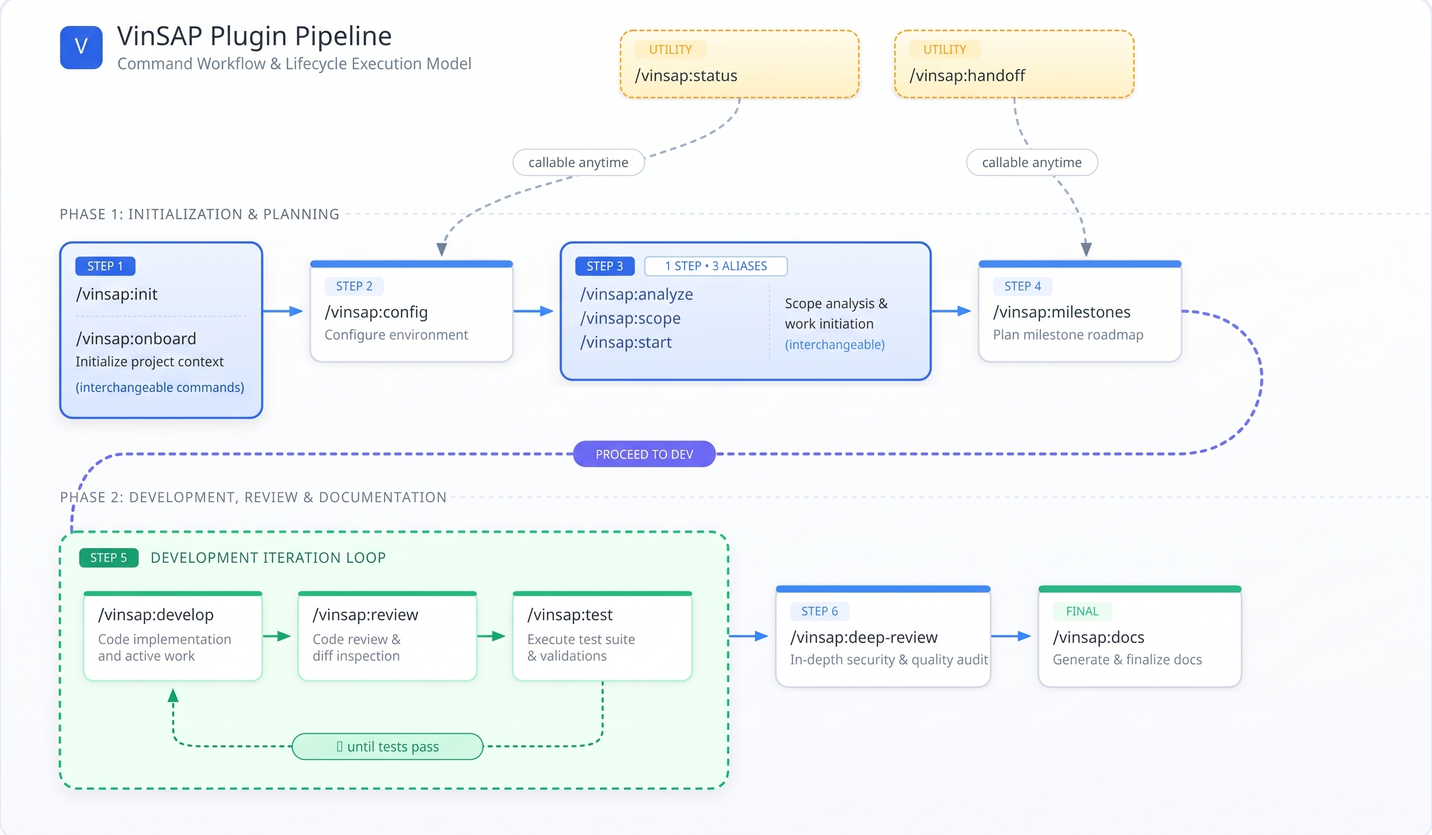
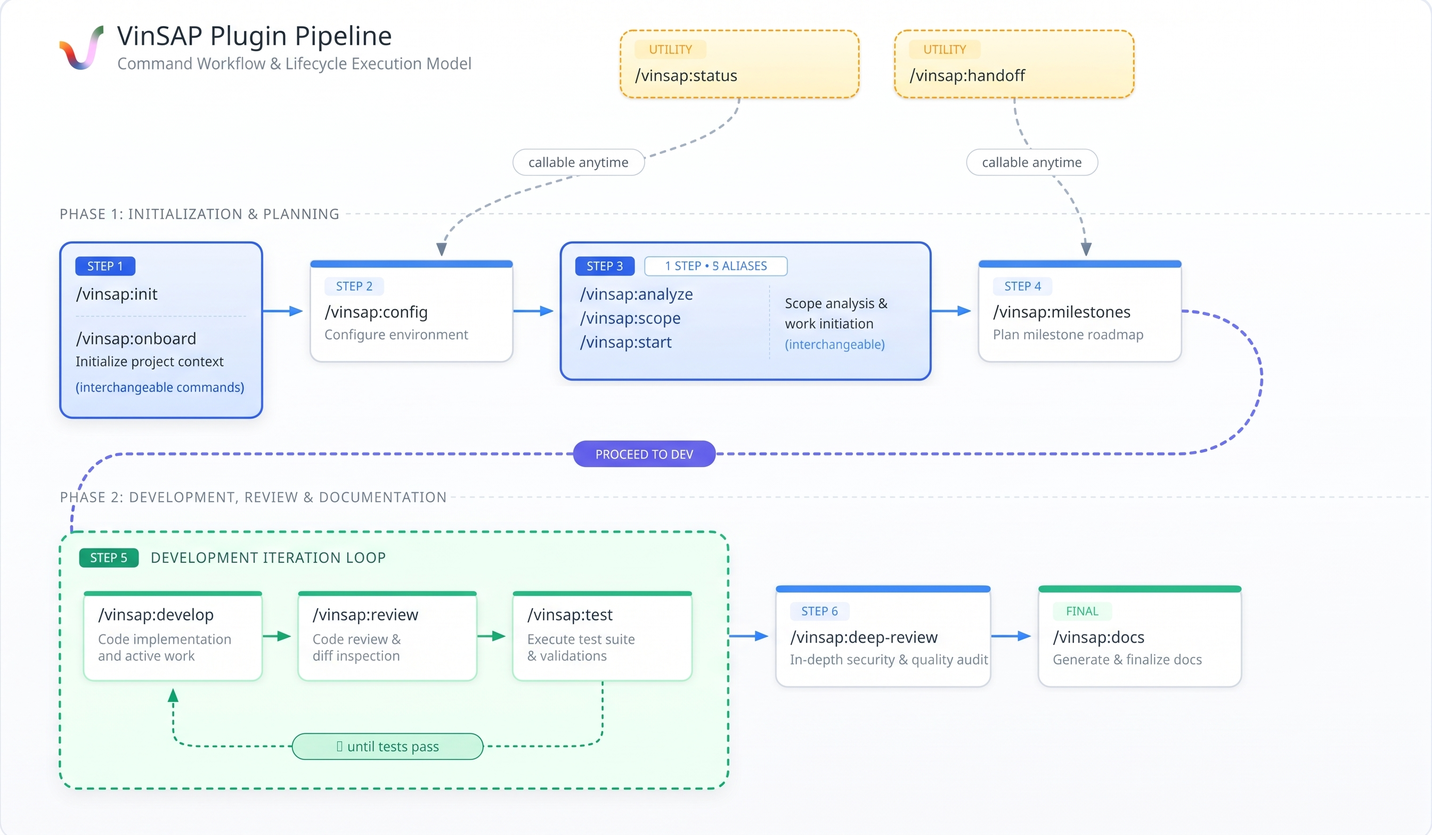
docs: add draw.io to prerequisites, wire CLI export into illustrator
draw.io desktop app (with its headless CLI mode) is the default
diagram_tool but was missing from both onboarding-guide's prerequisite
check and the README table. Added with per-OS install paths
(brew cask on macOS, drawio.com elsewhere), and illustrator's SKILL.md
now documents the actual export command (drawio -x -f svg ...) with a
mermaid fallback if the CLI isn't installed.

Changed region(s): [[0.0312, 0.0312, 0.0938, 0.0938]]

diff --git a/skills/onboarding-guide/references/prerequisites.md b/skills/onboarding-guide/references/prerequisites.md
@@ -5,6 +5,7 @@
 | Node.js | Runs Claude Code, Playwright, doc-generation tooling | `node --version` (>=18) | https://nodejs.org |
 | Claude Code CLI | Runs the plugin itself | `claude --version` | https://docs.claude.com/claude-code |
 | Playwright | Fiori/UI5 e2e test generation and execution | `npx playwright --version` | `npm install -D playwright && npx playwright install` |
+| draw.io (desktop app + CLI) | Architecture/process diagrams via the `illustrator` skill (default `diagram_tool`) — the desktop app ships a headless CLI mode used to export `.drawio` files to SVG/PNG | `drawio --version` | macOS: `brew install --cask drawio` · Windows/Linux: https://www.drawio.com/ (download and install; the `drawio` CLI binary ships inside the desktop app install) |
 | antigravity CLI (optional) | Only needed if configured as the diagram/image-generation tool instead of draw.io/mermaid | project-specific | ask the user for their install source — this is not a standard public tool |
 
 ## Flow
@@ -12,4 +13,5 @@
 1. Run each check command.
 2. For anything missing, show the install command and ask the user to run it (or confirm you may run it — installs are not silent/automatic).
 3. Re-check after the user confirms install.
-4. antigravity CLI is only required if `/vinsap:config` sets it as the diagram tool — skip checking it otherwise.
+4. draw.io is only required if `/vinsap:config`'s `diagram_tool` is `drawio` (the default) — if the user sets it to `mermaid` instead, skip this check.
+5. antigravity CLI is only required if `/vinsap:config` sets it as the diagram tool — skip checking it otherwise.

diff --git a/skills/illustrator/SKILL.md b/skills/illustrator/SKILL.md
@@ -17,7 +17,7 @@ Follow `../_shared/context-contract.md` for read/write conventions.
 1. Determine what the diagram needs to show (architecture, process flow As-Is/To-Be, milestone dependency) and which document/context it's for.
 2. Check `.sdlc/config.json` for the configured tool; default to draw.io for anything destined for a formal document.
 3. Apply `references/illustration-guidelines.md` — simple, single-concept, consistently styled, fully labeled.
-4. For draw.io: build the diagram using `references/drawio-theme/` styling; export in the format the destination document needs (embed-ready image or draw.io native file, per what `doc-generator` requests).
+4. For draw.io: build the `.drawio` file using `references/drawio-theme/` styling, then export via the headless `drawio` CLI (ships with the desktop app — see `onboarding-guide/references/prerequisites.md`), e.g. `drawio -x -f svg -o output.svg diagram.drawio`, in the format the destination document needs (embed-ready image or the native `.drawio` file, per what `doc-generator` requests). If `drawio` isn't installed, tell the user and fall back to mermaid rather than failing silently.
 5. For mermaid: use a pattern from `references/mermaid-patterns.md`, adapt to the specific content.
 6. Return the diagram to the calling skill (`doc-generator` or `milestone-planner`) — this skill does not decide where the diagram is used, only how it's built.
 

diff --git a/README.md b/README.md
@@ -30,6 +30,7 @@ It talks to your SAP systems through the **Vincit SAP MCP** (a VS Code extension
 | Node.js ≥ 18 | Playwright, doc tooling |
 | [Playwright](https://playwright.dev) | Fiori/UI5 e2e test generation |
 | Python 3 | Runs the SAP MCP guardrail hook |
+| draw.io (desktop app + CLI) | Architecture/process diagrams — default `diagram_tool`. macOS: `brew install --cask drawio` · Windows/Linux: [drawio.com](https://www.drawio.com/) |
 | Vincit SAP MCP (VS Code extension) | Per-system SAP access — connect this **before** `/vinsap:config` |
 | Atlassian MCP | Jira/Confluence connector |
 | antigravity CLI *(optional)* | Only needed if configured as the diagram/image-generation tool instead of draw.io/mermaid |
